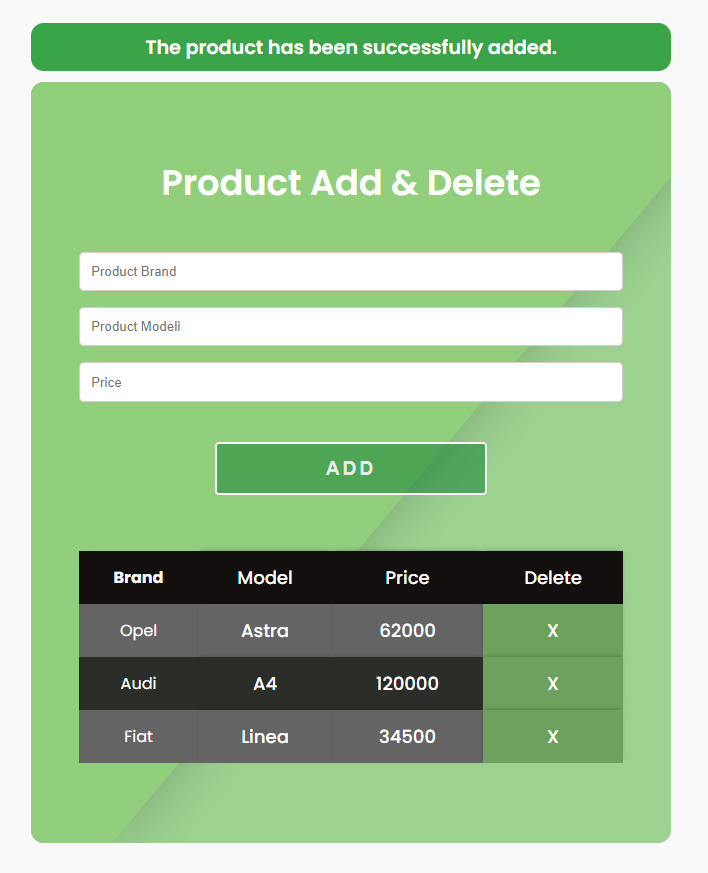
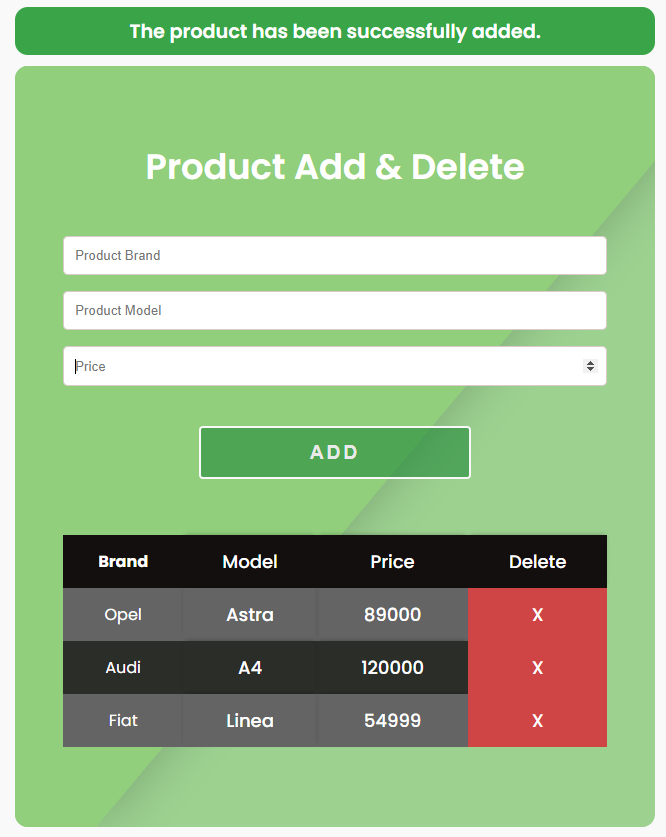
Added delete section of LocalStorage items

Changed region(s): [[0.0, 0.0, 0.991, 0.994], [0.3003, 0.497, 0.7207, 0.5902], [0.2102, 0.1864, 0.7808, 0.2485]]

diff --git a/6-product-add-delete/final/script.js b/6-product-add-delete/final/script.js
@@ -68,10 +68,10 @@ function localStorageRead(){
     for (let i = 0; i < lName.length; i++) {
         const tr = document.createElement('tr');
         tr.innerHTML = `<td>${lName[i]}</td><td>${lModel[i]}</td><td>${lPrice[i]}</td><td class="del">X</td>`;
-        console.log(tr);
         tableBody.appendChild(tr);
     }
-    tableEl.style.display = 'table';
+    if(lName.length  !== 0 && lModel.length !== 0 && lPrice.length !== 0)
+        tableEl.style.display = 'table';
 }
 
 UI.prototype.productAdd = function (product) {
@@ -105,13 +105,34 @@ UI.prototype.clearForm = function (product) {
 }
 
 UI.prototype.productDelete = function (target) {
-    (target.className === 'del') ? target.parentElement.remove(): "";
-    localStorageDelete(target.parentElement);
+    if(target.className === 'del') {
+        target.parentElement.remove();
+        localStorageDelete(target.parentElement);
+    }
 }
 
 function localStorageDelete(item){
+    const tableEl = document.querySelector('.table');
+
     const [lName, lModel, lPrice] = localStorageOperations();
+    let temp = true, nIndex = -1, mIndex = -1, pIndex = -1;
 
+    while (temp){
+    nIndex = lName.indexOf(item.children[0].textContent, nIndex + 1);
+    mIndex = lModel.indexOf(item.children[1].textContent, mIndex + 1);
+    pIndex = lPrice.indexOf(item.children[2].textContent, pIndex + 1);
+    if(nIndex === mIndex && nIndex === pIndex && mIndex === pIndex)
+        temp = false;
+    }
 
-    //item.children[i].innerText
+    lName.splice(nIndex,1);
+    lModel.splice(mIndex,1);
+    lPrice.splice(pIndex,1);
+
+    localStorage.setItem('lName', JSON.stringify(lName));
+    localStorage.setItem('lModel', JSON.stringify(lModel));
+    localStorage.setItem('lPrice', JSON.stringify(lPrice));
+
+    if(lName.length  === 0 && lModel.length === 0 && lPrice.length === 0)
+        tableEl.style.display = 'none';
 }

diff --git a/6-product-add-delete/final/index.html b/6-product-add-delete/final/index.html
@@ -14,7 +14,7 @@
         <h1 class="title">Product Add & Delete</h1>
         <form action="" id="product-add">
             <input id="product-name" type="text" placeholder="Product Brand" autocomplete="off">
-            <input id="product-model" type="text" placeholder="Product Modeli" autocomplete="off">
+            <input id="product-model" type="text" placeholder="Product Model" autocomplete="off">
             <input id="product-price" type="number" placeholder="Price" min="1" max="999999">
             <input type="submit" class="btn" value="ADD"/>
         </form>

diff --git a/6-product-add-delete/final/style.css b/6-product-add-delete/final/style.css
@@ -132,7 +132,7 @@ table.table tr:nth-child(2n + 1) {
 
 td.del {
   position: relative;
-  background-color: #6ca25e;
+  background-color: #cf4545;
   color: #fff;
   cursor: pointer;
   text-align: center;
